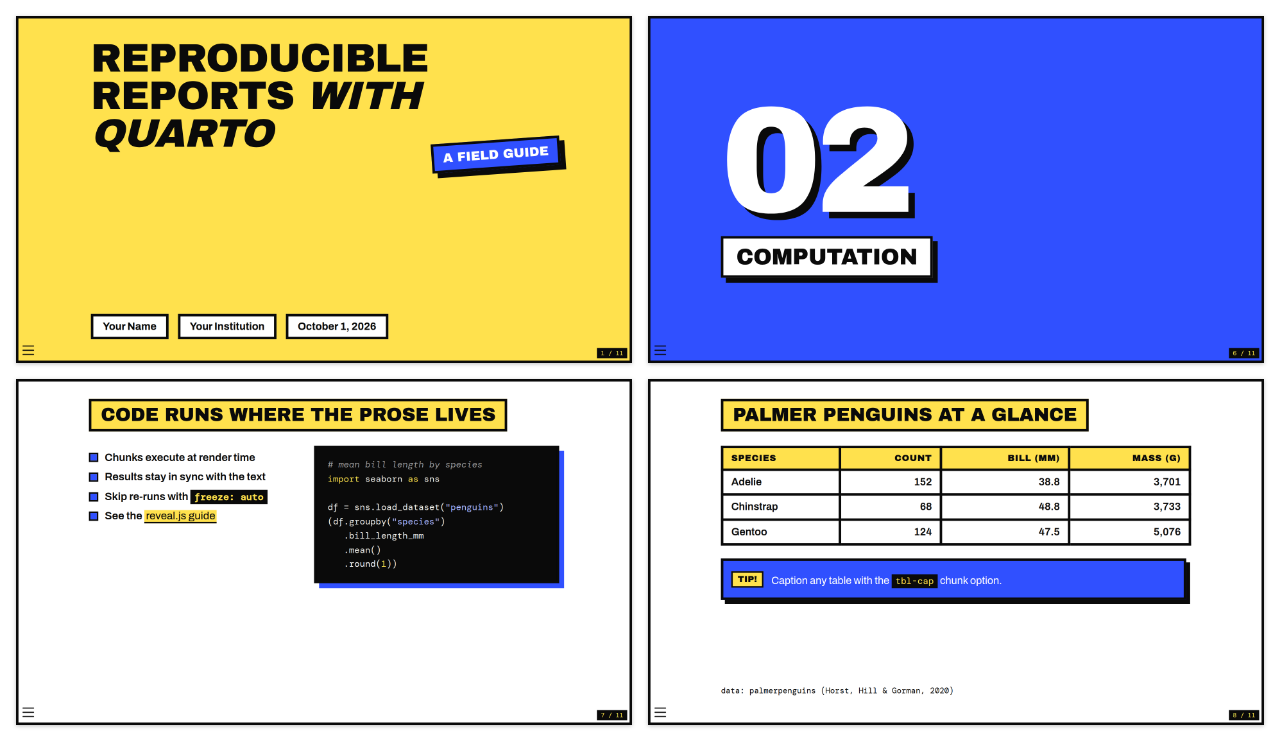
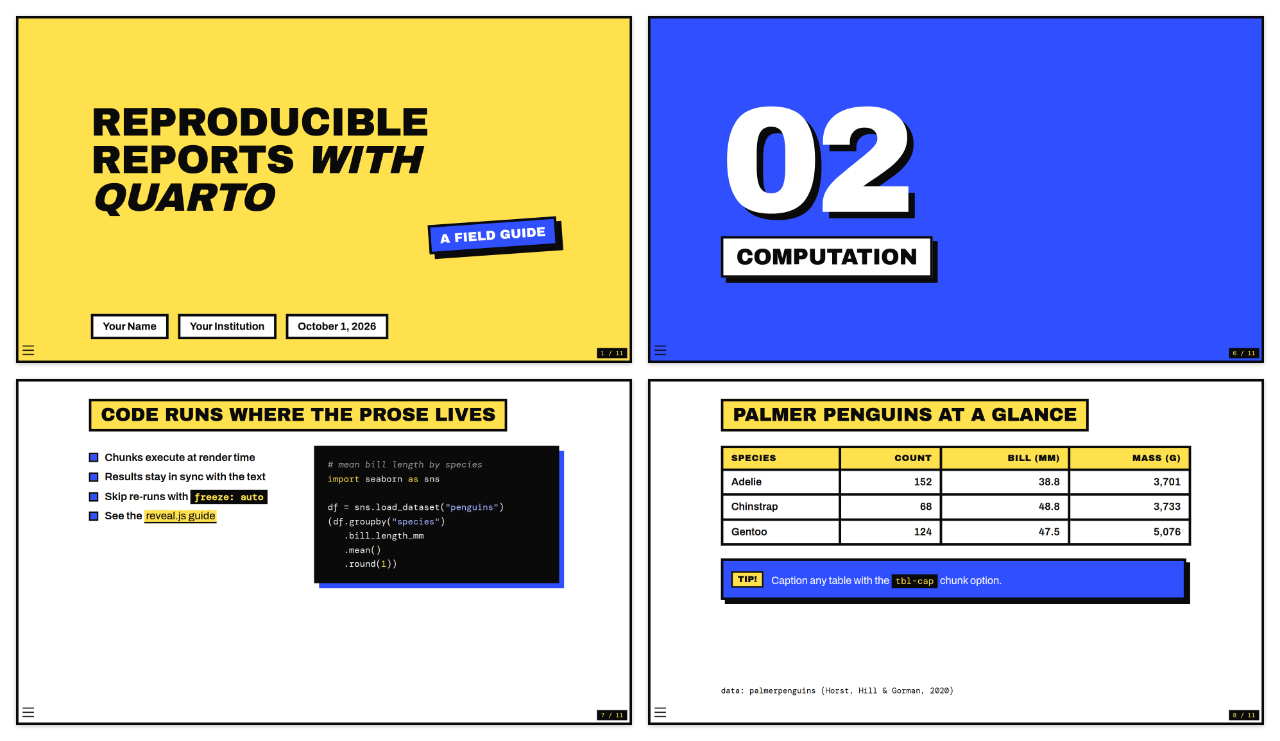
Centre the Brutalist Pop cover title and sticker
The title and the tilted subtitle sticker now sit in the grid, centred
in the space above the author/date chips, instead of the title at the
top and the sticker at a fixed position. Being in the layout flow, they
can no longer overlap the chips.

Claude-Session: https://claude.ai/code/session_01AYQgjzvYRBcmetYfhGp6ZN

Changed region(s): [[0.0625, 0.0621, 0.4688, 0.3104], [0.3125, 0.2794, 0.4375, 0.3725]]

diff --git a/_extensions/pop/pop.scss b/_extensions/pop/pop.scss
@@ -333,12 +333,13 @@ $code-bg: $pop-black !default;
     display: grid !important;
   }
   grid-template-columns: auto auto auto 1fr;
-  grid-template-rows: auto 1fr auto;
+  // title and sticker centred in the space above the chips, never on them
+  grid-template-rows: 1fr auto auto 1fr auto;
   column-gap: 19px;
   padding: 48px 54px;
 
   .title {
-    grid-column: 1 / -1;
+    grid-area: 2 / 1 / 3 / -1;
     max-width: 760px;
     margin: 0;
     font-size: 80px;
@@ -347,10 +348,9 @@ $code-bg: $pop-black !default;
   }
 
   .subtitle {
-    position: absolute;
-    right: 48px;
-    top: 250px;
-    margin: 0;
+    grid-area: 3 / 1 / 4 / -1;
+    justify-self: end;
+    margin: 8px 0 0;
     font-size: 26px;
   }
 
@@ -363,7 +363,7 @@ $code-bg: $pop-black !default;
   .quarto-title-author-name,
   .quarto-title-affiliation,
   .date {
-    grid-row: 3;
+    grid-row: 5;
     margin: 0;
     padding: 6px 19px;
     background: $pop-white;
